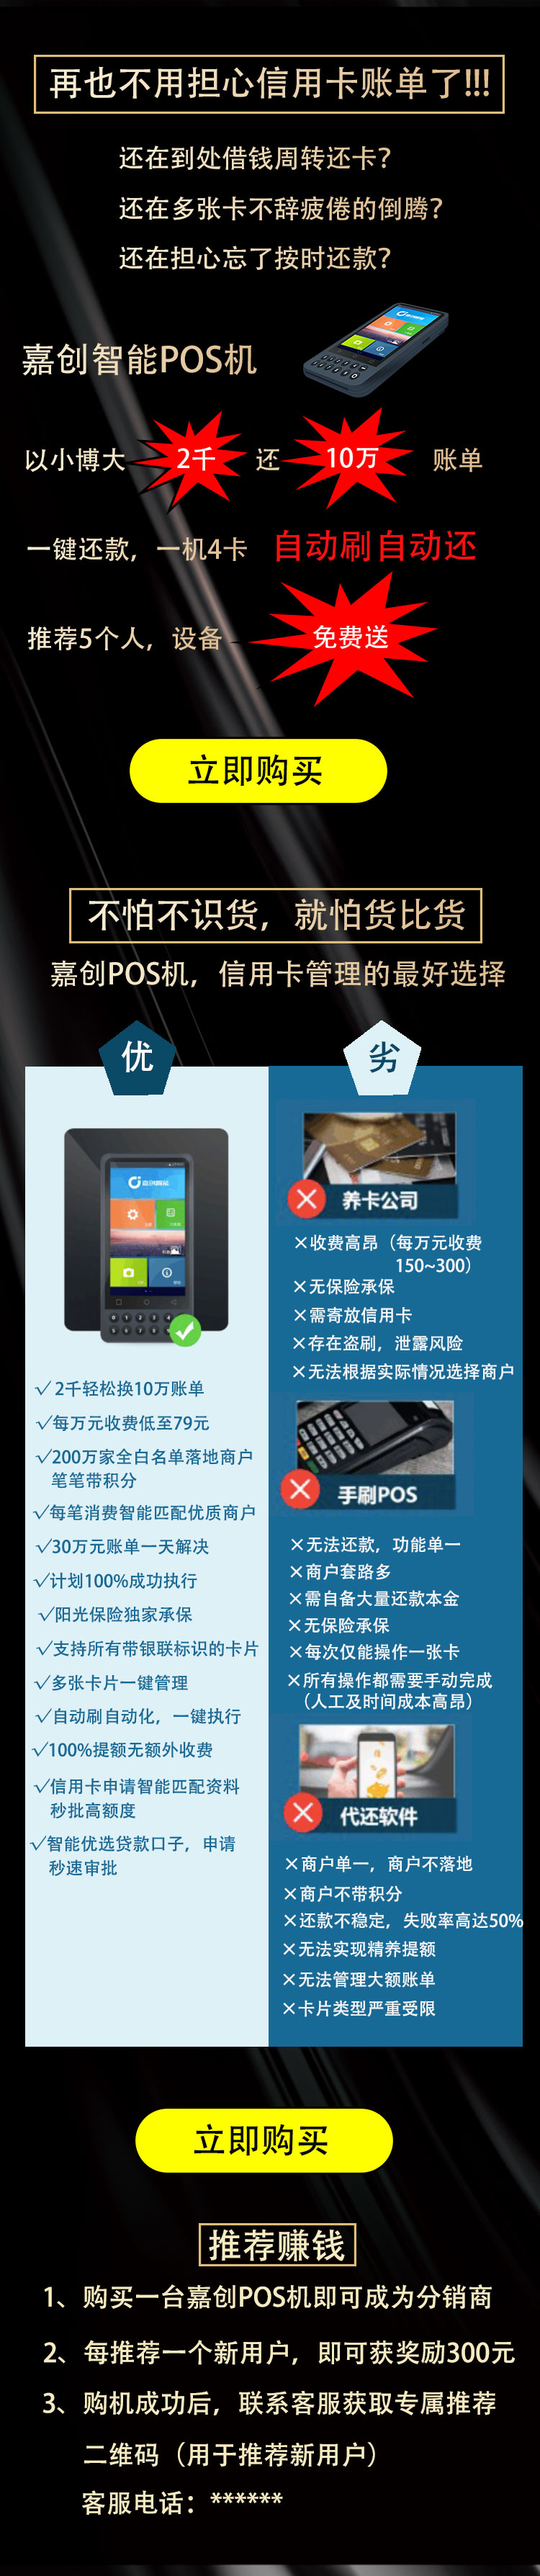
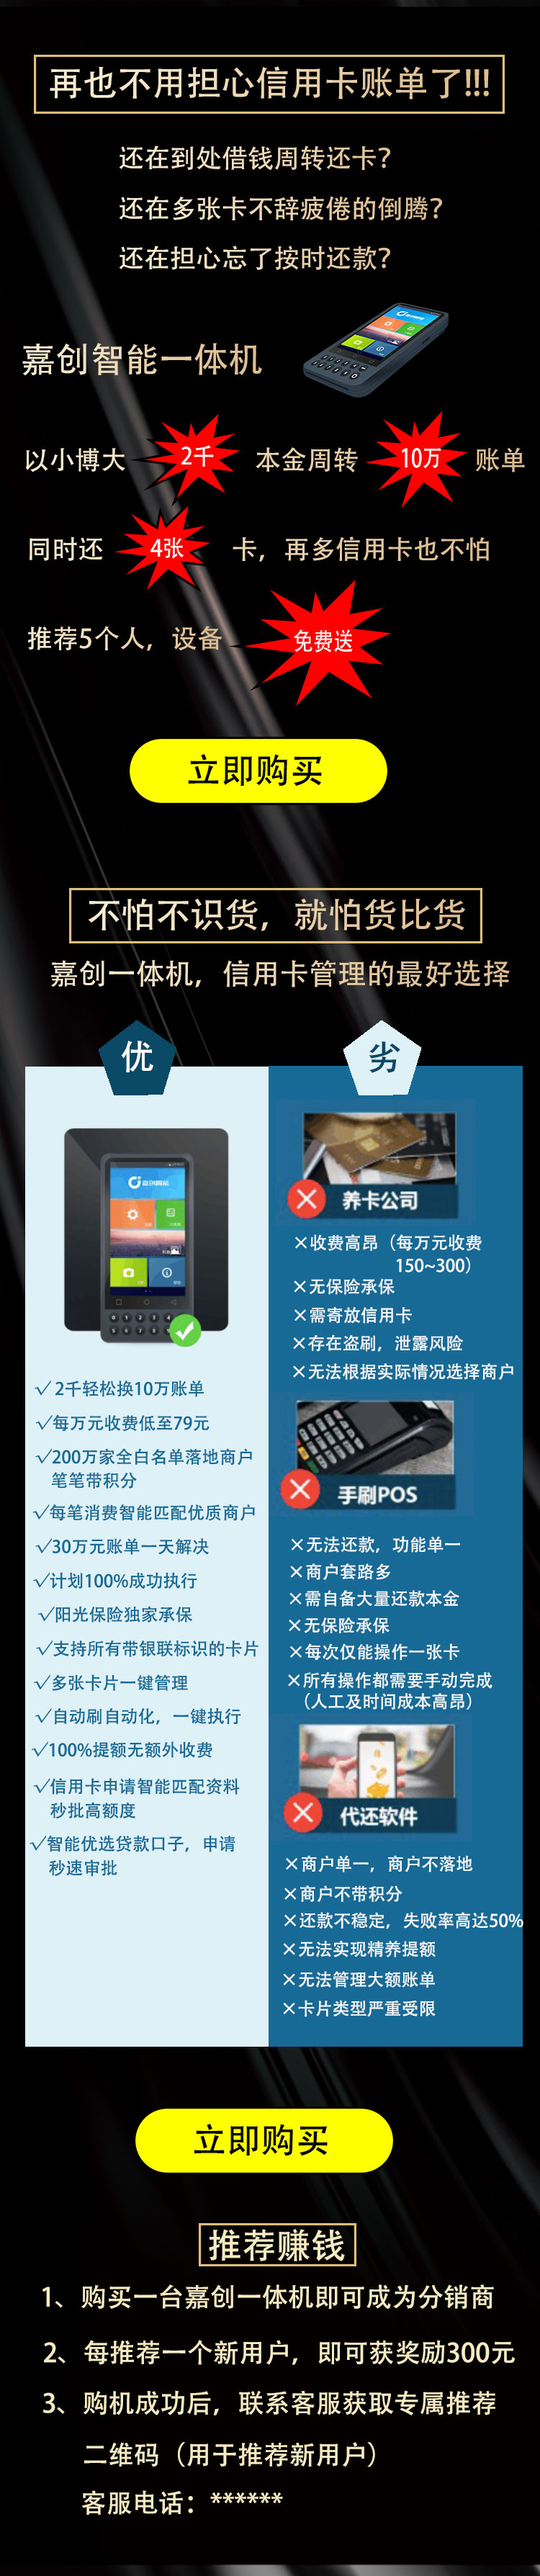
v1.2
v1.2

diff --git a/index.html b/index.html
@@ -2,7 +2,7 @@
 <html lang="en">
 <head>
     <meta charset="UTF-8">
-    <title>你好</title>
+    <title>嘉创智能一体机</title>
     <meta http-equiv="Content-Type" content="text/html; charset=utf-8"/>
     <meta name="viewport" content="width=device-width,initial-scale=1,user-scalable=0,viewport-fit=cover">
     <link rel="stylesheet" type="text/css" href="./css/base.css">
@@ -38,7 +38,7 @@
 </div>
 <script>
 
-    var url = "http://www.ktvme.com";
+    var url = "https://detail.youzan.com/show/goods?alias=2xgk5ogmftkur&from=wxd&kdtfrom=wxd&alias=2xgk5ogmftkur";
 
     document.querySelector(".btn_1").onclick = function (e) {
         window.location.href = url;
